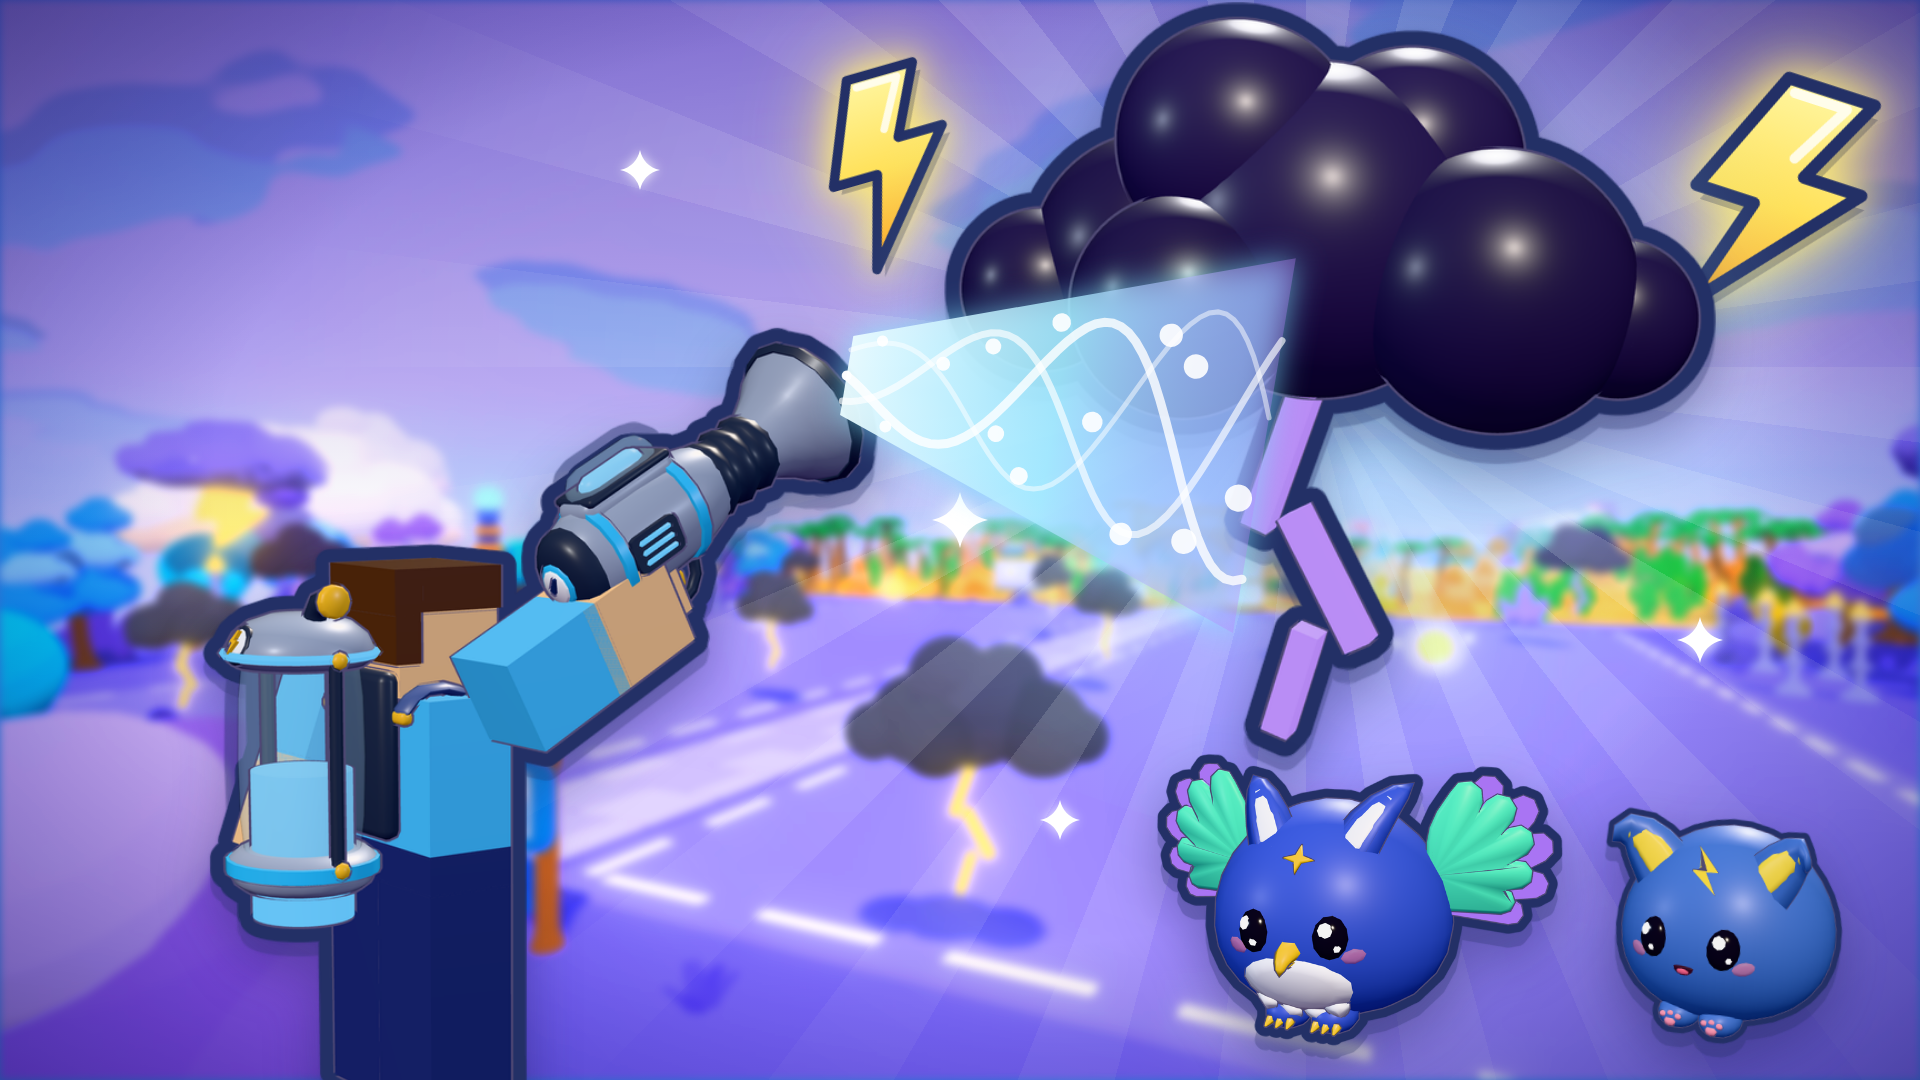
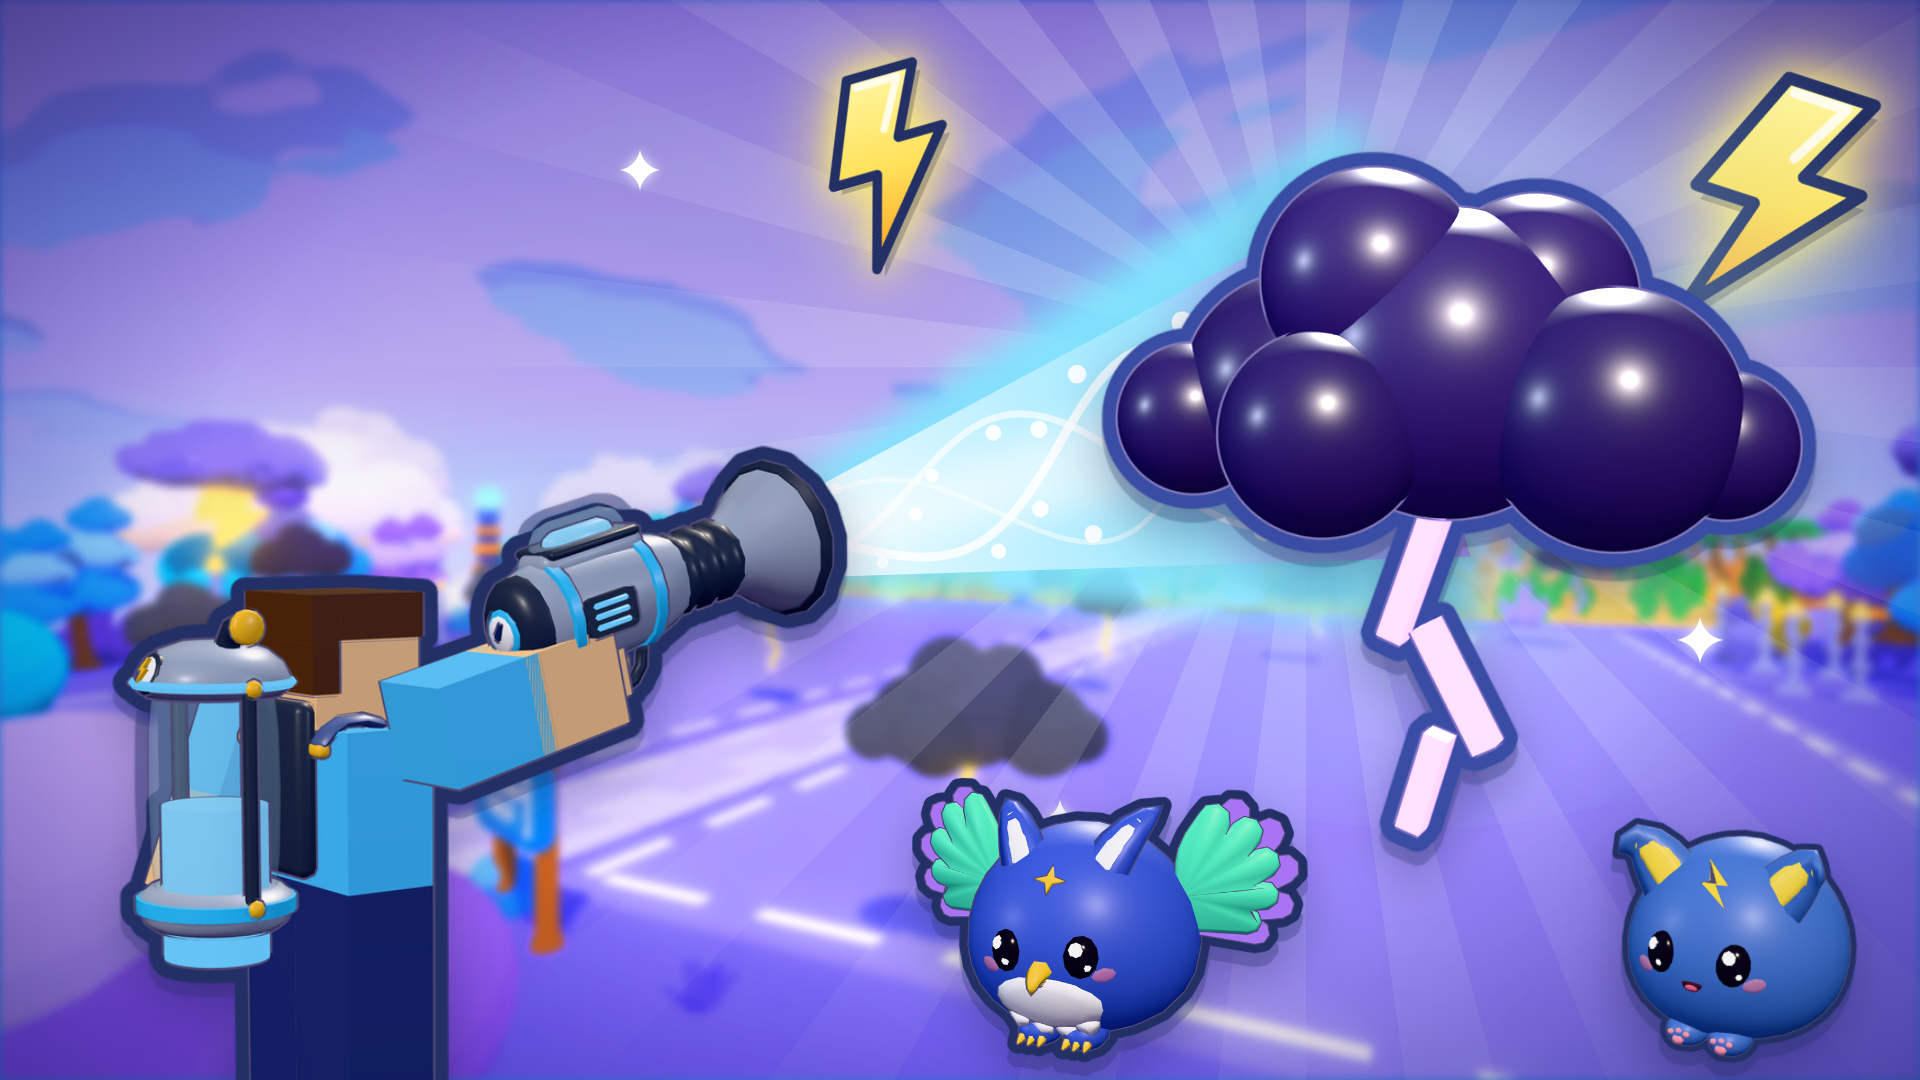
Roblox ad creatives: 8 images at 1920x1080 from real game renders
catch the storm (player with the new vacuum), hatch cute pets, beat the mega
storm, explore 6 sky islands, golden & rainbow pets, legendary pets, a no-text
scene and a title card; pages in assets/source/ads.html, regenerated with
python3 tools/render_art.py ads

Claude-Session: https://claude.ai/code/session_01X6pGHfvTm7U1EwdDC9ZDhh

diff --git a/assets/source/ads.html b/assets/source/ads.html
@@ -104,7 +104,7 @@ function suction(from, to, startWidth, endWidth, accent) {
     streaks += `<path d="${d}" fill="none" stroke="#ffffff" stroke-width="${9 - i * 2}" stroke-linecap="round" opacity="${0.8 - i * 0.15}"/>`;
   }
   let specks = "";
-  for (let i = 0; i < 14; i++) {
+  for (let i = 0; i < 22; i++) {
     const t = (i * 0.37) % 1;
     const y = Math.sin(i * 2.7) * half(t) * 0.8;
     const r = 5 + 9 * t;
@@ -114,16 +114,18 @@ function suction(from, to, startWidth, endWidth, accent) {
   wrapper.innerHTML = `<svg xmlns="http://www.w3.org/2000/svg" width="1920" height="1080" viewBox="0 0 1920 1080">
     <defs>
       <linearGradient id="beam" x1="0" y1="0" x2="1" y2="0">
-        <stop offset="0" stop-color="#f2fdff" stop-opacity="0.95"/>
-        <stop offset="0.6" stop-color="#aaebff" stop-opacity="0.8"/>
-        <stop offset="1" stop-color="${accent}" stop-opacity="0.6"/>
+        <stop offset="0" stop-color="#f2fdff" stop-opacity="1"/>
+        <stop offset="0.6" stop-color="#9fe8ff" stop-opacity="0.9"/>
+        <stop offset="1" stop-color="${accent}" stop-opacity="0.7"/>
       </linearGradient>
       <filter id="soft" x="-20%" y="-50%" width="140%" height="200%"><feGaussianBlur stdDeviation="16"/></filter>
     </defs>
     <g transform="translate(${x1} ${y1}) rotate(${angle})">
-      <path d="M 0 ${-startWidth / 2} L ${length} ${-endWidth / 2} L ${length} ${endWidth / 2} L 0 ${startWidth / 2} Z"
-        fill="#7fe6ff" opacity="0.7" filter="url(#soft)"/>
+      <path d="M 0 ${-startWidth * 0.7} L ${length} ${-endWidth * 0.7} L ${length} ${endWidth * 0.7} L 0 ${startWidth * 0.7} Z"
+        fill="#7fe6ff" opacity="0.9" filter="url(#soft)"/>
       <path d="M 0 ${-startWidth / 2} L ${length} ${-endWidth / 2} L ${length} ${endWidth / 2} L 0 ${startWidth / 2} Z" fill="url(#beam)"/>
+      <path d="M 0 ${-startWidth / 5} L ${length} ${-endWidth / 5} L ${length} ${endWidth / 5} L 0 ${startWidth / 5} Z"
+        fill="#ffffff" opacity="0.55" filter="url(#soft)"/>
       ${streaks}${specks}
     </g>
   </svg>`;
@@ -141,9 +143,7 @@ const BELT = [[-1.2, 0.02], [-0.86, 0.02], [-0.66, -0.09], [-0.46, 0.04], [-0.28
   [0.24, 0.03], [0.44, -0.09], [0.64, 0.03], [0.86, -0.05], [1.2, -0.05]];
 
 async function eggHalf(src, part, width) {
-  const image = new Image();
-  image.src = src;
-  await image.decode();
+  const image = await Brand.loadImage(src);
   const w = image.naturalWidth;
   const h = image.naturalHeight;
   const canvas = document.createElement("canvas");
@@ -210,21 +210,26 @@ function healthBar(name, fraction, width) {
   return wrapper.firstChild;
 }
 
-// The vacuum scene of ads 1 and 7: the player (from behind) aims the Storm Vacuum at a weather cell. `nozzle`
-// is where the vacuum's mouth lands for a player sprite of `width` at `at` (anchor: bottom-left).
-// The beam runs behind the cell into its body (the upper part of the sprite: the cells' bolts hang below).
-function vacuumScene({ player, cloud, cloudWidth, cloudAt, accent, beamWidths, brighten = 1 }) {
+// The vacuum scene of ads 1 and 7: the player (from behind, anchored by the bottom-left corner of the sprite)
+// aims the Storm Vacuum at a weather cell `reach` px away along the barrel, which points 15 degrees up. The
+// suction beam runs behind the cell into its body (the upper part of the sprite: the cells' bolts hang below).
+const PLAYER_SIZE = [711, 717]; // studio/Gear_Player.png
+const PLAYER_NOZZLE = [650, 105]; // its vacuum's mouth
+const AIM_ANGLE = 15 * Math.PI / 180;
+
+function vacuumScene({ player, reach, cloud, cloudWidth, accent, beamWidths, brighten = 1 }) {
   const sprite = Brand.sprite(ART + "studio/Gear_Player.png", { width: player.width });
   Brand.place(stage, sprite, player.at, { anchor: [0, 1], z: 3 });
-  const scale = player.width / 648; // Gear_Player.png is 648 x 770; the nozzle mouth is at about (600, 64)
-  const nozzle = [player.at[0] + 600 * scale, player.at[1] - (770 - 64) * scale];
-  halo(cloudAt[0], cloudAt[1] - cloudWidth * 0.1, cloudWidth * 1.5, "rgba(190, 240, 255, 0.6)");
+  const scale = player.width / PLAYER_SIZE[0];
+  const nozzle = [player.at[0] + PLAYER_NOZZLE[0] * scale, player.at[1] - (PLAYER_SIZE[1] - PLAYER_NOZZLE[1]) * scale];
+  const body = [nozzle[0] + Math.cos(AIM_ANGLE) * reach, nozzle[1] - Math.sin(AIM_ANGLE) * reach];
+  const cloudAt = [body[0] + cloudWidth * 0.05, body[1] + cloudWidth * 0.17];
+  halo(body[0], body[1], cloudWidth * 1.5, "rgba(190, 240, 255, 0.6)");
   const cell = studio(cloud, cloudWidth, cloudAt, { z: 2 });
   if (brighten !== 1) cell.style.filter = `brightness(${brighten}) ${getComputedStyle(cell).filter}`;
-  const body = [cloudAt[0] - cloudWidth * 0.05, cloudAt[1] - cloudWidth * 0.17];
   const beam = suction(nozzle, body, beamWidths[0], beamWidths[1], accent);
   beam.style.zIndex = 1;
-  return { nozzle, cell };
+  return { nozzle, body, cell };
 }
 
 // ------------------------------------------------------------------------------------------- the ads
@@ -239,13 +244,13 @@ const ADS = {
     Brand.place(stage, Brand.bolt(230, { glow: BOLT_GLOW }), [1770, 250], { rotate: 16 });
     Brand.place(stage, Brand.bolt(170, { glow: BOLT_GLOW }), [1080, 210], { rotate: -14 });
     vacuumScene({
-      player: { width: 600, at: [150, 1135] },
-      cloud: "Weather_StormCloud", cloudWidth: 700, cloudAt: [1390, 450],
+      player: { width: 640, at: [110, 1180] }, reach: 700,
+      cloud: "Weather_StormCloud", cloudWidth: 680,
       accent: "#ffe650", beamWidths: [70, 330], brighten: 1.15,
     });
-    pet("ThunderPup", 300, [1310, 925], { rotate: 4, z: 5 });
-    pet("Zappy", 230, [1640, 905], { rotate: 6, z: 5 });
-    sparkles([[1000, 520, 52], [1760, 640, 44], [1180, 760, 40]]);
+    pet("ThunderPup", 290, [1010, 935], { rotate: -4, z: 5 });
+    pet("Zappy", 230, [1720, 930], { rotate: 6, z: 5 });
+    sparkles([[1030, 690, 44], [1790, 640, 44], [1240, 800, 38]]);
     Brand.place(stage, Brand.title("CATCH THE", { size: 170, fill: "cloud" }), [130, 70], { anchor: [0, 0], z: 6 });
     Brand.place(stage, Brand.title("STORM!", { size: 230, fill: "bolt" }), [130, 255], { anchor: [0, 0], z: 6 });
   },
@@ -257,13 +262,13 @@ const ADS = {
     halo(960, 680, 1100, "rgba(255, 255, 230, 0.95)");
     const egg = ART + "studio/Egg_MeadowEgg.png";
     const bottom = await eggHalf(egg, "bottom", 500);
-    Brand.place(stage, bottom, [960, 1110], { anchor: [0.5, 1], z: 4 });
+    Brand.place(stage, bottom, [960, 1050], { anchor: [0.5, 1], z: 4 });
     const top = await eggHalf(egg, "top", 500);
     Brand.place(stage, top, [1470, 560], { rotate: 32, z: 2 });
     // the shell's top flew off to the right; the pets burst out of the bottom half (Prism still half inside)
     pet("Puffling", 320, [500, 620], { rotate: -14, z: 3 });
     pet("Sunny", 270, [1440, 880], { rotate: 10, z: 3 });
-    pet("Prism", 520, [960, 690], { z: 3 });
+    pet("Prism", 520, [960, 600], { z: 3 });
     sparkles([[700, 420, 60], [1240, 400, 50], [380, 880, 46], [1650, 740, 40], [960, 360, 44]]);
     Brand.place(stage, Brand.title("HATCH CUTE PETS!", { size: 200, maxWidth: 1640, fill: "bolt" }), [960, 175], { z: 6 });
   },
@@ -326,8 +331,8 @@ const ADS = {
     rays("50%", "66%", 0.26, "85%");
     halo(960, 720, 900, "rgba(255, 245, 190, 0.95)");
     const gold = "rgba(255, 214, 80, 0.95)";
-    const legends = [["StormLord", 270, [600, 660], -8, 2], ["GalaxyGuardian", 270, [1320, 650], 8, 2],
-      ["YetiKing", 330, [330, 850], -6, 3], ["InfernoDrake", 330, [1590, 850], 6, 3], ["BreezeKing", 560, [960, 790], 0, 4]];
+    const legends = [["StormLord", 300, [590, 670], -8, 2], ["GalaxyGuardian", 300, [1330, 660], 8, 2],
+      ["YetiKing", 370, [320, 865], -6, 3], ["InfernoDrake", 370, [1600, 865], 6, 3], ["BreezeKing", 630, [960, 805], 0, 4]];
     for (const [name, fit, at, rotate, z] of legends) {
       Brand.glow(pet(name, fit, at, { rotate, z }), gold, 26);
     }
@@ -345,12 +350,12 @@ const ADS = {
     Brand.place(stage, Brand.bolt(250, { glow: BOLT_GLOW }), [1760, 200], { rotate: 18 });
     Brand.place(stage, Brand.bolt(190, { glow: BOLT_GLOW }), [880, 170], { rotate: -16 });
     vacuumScene({
-      player: { width: 720, at: [180, 1160] },
-      cloud: "Weather_Thunderhead", cloudWidth: 760, cloudAt: [1340, 450],
+      player: { width: 780, at: [90, 1210] }, reach: 640,
+      cloud: "Weather_Thunderhead", cloudWidth: 760,
       accent: "#b982ff", beamWidths: [80, 380], brighten: 1.6,
     });
-    pet("AuroraGryphon", 430, [1360, 900], { z: 5 });
-    pet("ThunderPup", 260, [1720, 930], { rotate: 6, z: 5 });
+    pet("AuroraGryphon", 420, [1110, 920], { z: 5 });
+    pet("ThunderPup", 270, [1730, 945], { rotate: 6, z: 5 });
     sparkles([[960, 520, 56], [1700, 640, 46], [1060, 820, 40], [640, 170, 40]]);
   },
 
@@ -359,8 +364,9 @@ const ADS = {
     layer("background: radial-gradient(circle at 50% 72%, #ffffff 0%, #c8f4ff 16%, #6fd2ff 40%, #2f8ff2 72%, #2361d0 100%)");
     rays("50%", "72%", 0.24, "85%");
     halo(960, 760, 1000, "rgba(255, 255, 255, 0.95)");
-    const bank = [[60, 330, 120], [250, 300, 110], [450, 340, 105], [1470, 340, 105], [1670, 300, 115], [1870, 330, 120]];
-    Brand.place(stage, Brand.cloudBank(1920, 420, bank, { base: 360, bottom: "#b9d4ff" }), [960, 1080], { anchor: [0.5, 1], z: 2 });
+    const bank = [[60, 330, 120], [250, 300, 110], [450, 340, 105], [640, 360, 85], [1280, 360, 85], [1470, 340, 105],
+      [1670, 300, 115], [1870, 330, 120]];
+    Brand.place(stage, Brand.cloudBank(1920, 420, bank, { base: 300, bottom: "#b9d4ff" }), [960, 1080], { anchor: [0.5, 1], z: 2 });
     Brand.place(stage, Brand.sprite(ART + "pets/AuroraGryphon_front.png", { width: 980 }), [960, 735], { z: 3 });
     sparkles([[300, 560, 56], [1620, 540, 50], [470, 440, 36], [1450, 430, 40]]);
     Brand.place(stage, Brand.title("STORM CATCHER", { size: 200, maxWidth: 1560, fill: "bolt" }), [960, 160], { z: 6 });

diff --git a/assets/source/branding/brand.js b/assets/source/branding/brand.js
@@ -161,14 +161,15 @@ const Brand = (() => {
 
   // A bank of cartoon clouds: puffs [[x, y, r], ...] (y measured from the top of a width x height box) on a
   // solid base that runs from the puffs' feet to the bottom. Ink outline, a vertical gradient and a white
-  // shine on every puff. opts: top / bottom colours, outline width, base (y where the solid base starts)
+  // shine on every puff. opts: top / bottom colours, outline width, base (y where the solid base starts; keep it
+  // above where neighbouring puffs cross, or the gap between them and the base becomes an Ink-filled hole)
   function cloudBank(width, height, puffs, opts = {}) {
     const outline = opts.outline ?? 9;
     const base = opts.base ?? Math.max(...puffs.map(([, y]) => y));
     const top = Math.min(...puffs.map(([, y, r]) => y - r));
     const face = uid("cloud");
     const shape = (grow) => puffs.map(([x, y, r]) => `<circle cx="${x}" cy="${y}" r="${r + grow}"/>`).join("") +
-      `<rect x="${-outline}" y="${base}" width="${width + outline * 2}" height="${height - base + outline}"/>`;
+      `<rect x="${-outline}" y="${base - grow}" width="${width + outline * 2}" height="${height - base + outline + grow}"/>`;
     const shines = puffs.map(([x, y, r]) =>
       `<ellipse cx="${x - r * 0.3}" cy="${y - r * 0.45}" rx="${r * 0.32}" ry="${r * 0.16}" transform="rotate(-25 ${x - r * 0.3} ${y - r * 0.45})"/>`).join("");
     const inner = `
@@ -223,11 +224,9 @@ const Brand = (() => {
   // A Rainbow-tier pet: in the world its colours keep cycling through the rainbow (PetController), which a
   // still shows as a rainbow sheen over the render: a <canvas> with the render, a rainbow gradient blended in
   // "hue" mode (dark eyes and outlines stay dark), cut back to the render's shape. Same size opts as
-  // sprite(); async because it needs the decoded render.
+  // sprite(); async because it needs the loaded render.
   async function rainbowSprite(src, opts = {}) {
-    const image = new Image();
-    image.src = src;
-    await image.decode();
+    const image = await loadImage(src);
     const w = image.naturalWidth;
     const h = image.naturalHeight;
     let scale = 1;
@@ -260,6 +259,18 @@ const Brand = (() => {
     return element;
   }
 
+  // Loads an image for drawing on a canvas. Waits for its load event rather than image.decode(): headless
+  // Chrome's virtual time (render_art.py's --virtual-time-budget) waits for loads, but not for decode()'s
+  // off-thread work, so a page awaiting decode() could be screenshot half built.
+  function loadImage(src) {
+    const image = new Image();
+    return new Promise((resolve, reject) => {
+      image.onload = () => resolve(image);
+      image.onerror = () => reject(new Error(`can't load ${src}`));
+      image.src = src;
+    });
+  }
+
   // Resolves once every <img> on the page has loaded (so the screenshot never catches a missing render)
   function imagesLoaded() {
     const pending = [...document.images].filter((image) => !image.complete);
@@ -268,5 +279,5 @@ const Brand = (() => {
     })));
   }
 
-  return { INK, FILLS, ready, title, ribbon, bolt, sparkle, cloudBank, place, sprite, rainbowSprite, glow, imagesLoaded };
+  return { INK, FILLS, ready, title, ribbon, bolt, sparkle, cloudBank, place, sprite, rainbowSprite, glow, loadImage, imagesLoaded };
 })();

diff --git a/tools/branding/capture.py b/tools/branding/capture.py
@@ -27,6 +27,8 @@ then  python3 tools/render_art.py icon thumbnail      to rebuild the icon and th
       python3 tools/branding/capture.py sheet          for build/branding/contact_sheet.png: the finished icon
                                                       and thumbnails big and at the sizes Roblox shows them
                                                       (icon 150/100/60 px, thumbnails 480 x 270)
+      python3 tools/render_art.py ads                  for the Ads Manager creatives (assets/source/ads.html), and
+      python3 tools/branding/capture.py ads-sheet      for build/ads/contact_sheet.png (each big and at 384 x 216)
 
 Requirements: Python 3.9+ with numpy and Pillow, Chrome/Chromium (CHROME_PATH or Playwright's headless
 shell), three.js (`npm install` in tools/pets and tools/preview) and, for the map, the `luau` command line
@@ -338,9 +340,35 @@ def contact_sheet():
     print("  wrote", rel(target))
 
 
+def ads_sheet():
+    """The ad creatives (assets/ads) on one page: each big, and at 384 x 216 like the Home feed shows them."""
+    ads = sorted((ROOT / "assets" / "ads").glob("ad_*.png"))
+    font = ImageFont.truetype(str(ROOT / "assets" / "source" / "fonts" / "FredokaOne-Regular.ttf"), 24)
+    margin, big_w, big_h, small_w, small_h = 30, 960, 540, 384, 216
+    columns = 2
+    cell_w = big_w + margin + small_w
+    cell_h = big_h + 50
+    rows = (len(ads) + columns - 1) // columns
+    sheet = Image.new("RGB", (margin + columns * (cell_w + margin), margin + 50 + rows * (cell_h + margin)), (234, 243, 255))
+    draw = ImageDraw.Draw(sheet)
+    draw.text((margin, margin), "Storm Catcher Simulator - ad creatives (1920 x 1080, and at 384 x 216)", fill=INK, font=font)
+    for index, path in enumerate(ads):
+        image = Image.open(path).convert("RGB")
+        x = margin + (index % columns) * (cell_w + margin)
+        y = margin + 50 + (index // columns) * (cell_h + margin)
+        sheet.paste(image.resize((big_w, big_h), Image.LANCZOS), (x, y))
+        sheet.paste(image.resize((small_w, small_h), Image.LANCZOS), (x + big_w + margin, y))
+        draw.text((x, y + big_h + 10), path.name, fill=INK, font=font)
+    target = ROOT / "build" / "ads" / "contact_sheet.png"
+    target.parent.mkdir(parents=True, exist_ok=True)
+    sheet.save(target)
+    print("  wrote", rel(target))
+
+
 def main():
     parser = argparse.ArgumentParser(description=__doc__, formatter_class=argparse.RawDescriptionHelpFormatter)
-    parser.add_argument("groups", nargs="*", help="pets, map, studio, sheet (default: pets and map, which includes studio)")
+    parser.add_argument("groups", nargs="*", help="pets, map, studio, sheet, ads-sheet (default: pets and map, which "
+                                                  "includes studio)")
     parser.add_argument("--pets", default="", help="comma-separated pet ids to try instead of the page set")
     parser.add_argument("--all", action="store_true", help="every pet and every studio model, not only the ones "
                                                           "the pages use (use with --out)")
@@ -357,8 +385,10 @@ def main():
             capture_studio(WORK / "raw" / "map", out_dir, args.all)
         elif group == "sheet":
             contact_sheet()
+        elif group == "ads-sheet":
+            ads_sheet()
         else:
-            parser.error(f"unknown group {group!r} (pets, map, studio, sheet)")
+            parser.error(f"unknown group {group!r} (pets, map, studio, sheet, ads-sheet)")
 
 
 if __name__ == "__main__":
